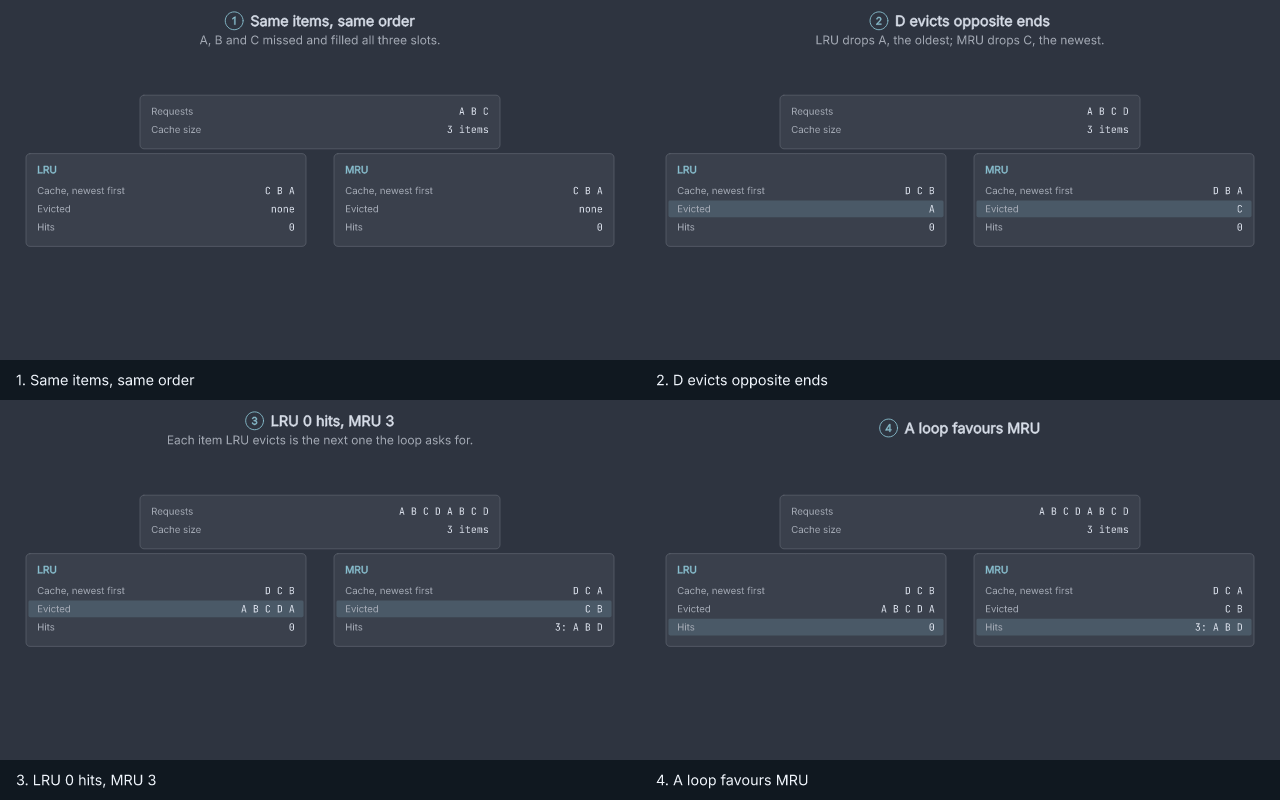
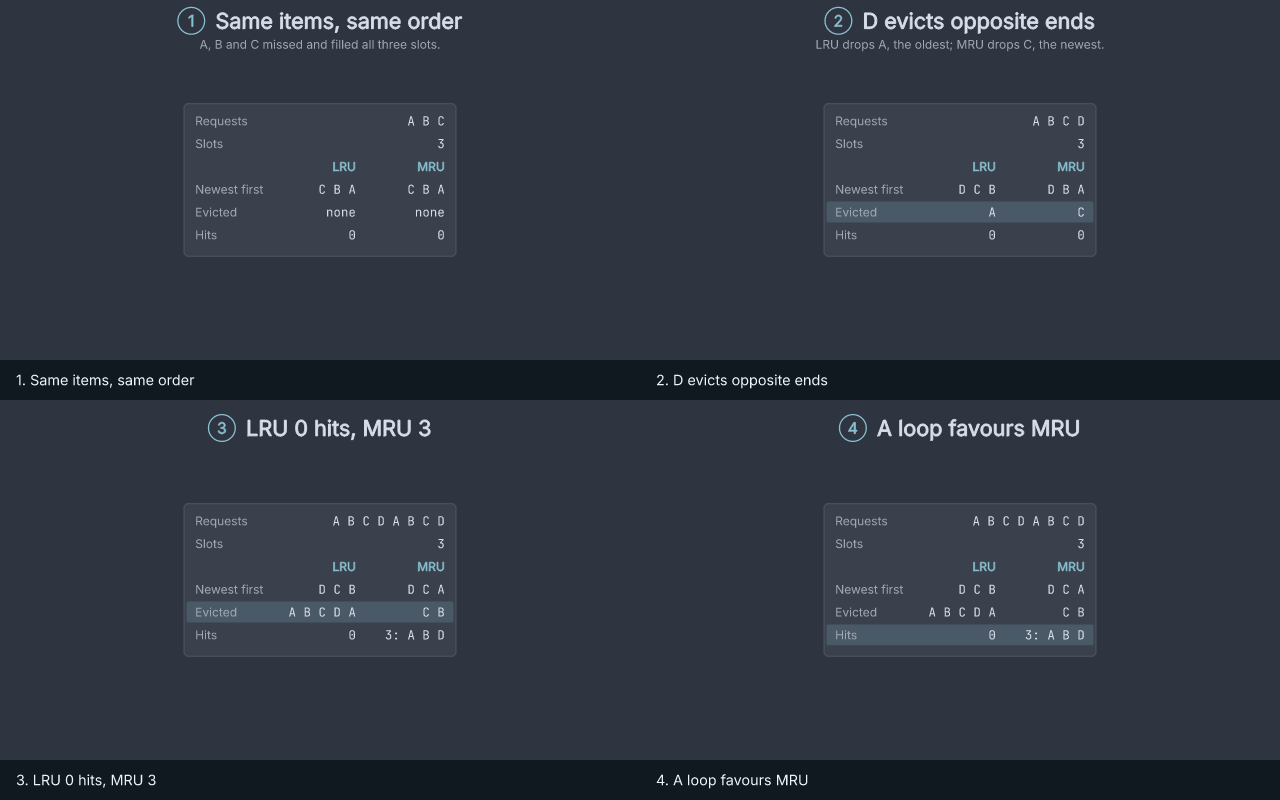
Refresh the LRU/MRU evidence for the one-card scene
Contact sheets of both cases, phone screenshots of loop step 3 and the
C D C D ending, and the review hashes for commit a37f2a3.

Claude-Session: https://claude.ai/code/session_01N4DAa9nFSeTseNAn2EjSby

diff --git a/docs/evidence/lru-mru-tutorial/README.md b/docs/evidence/lru-mru-tutorial/README.md
@@ -1,15 +1,16 @@
 # LRU/MRU tutorial explainer: resting pictures
 
-These images come from `scenes/tutorial/lru-mru/scene.ts` at commit `e27a32ea7a95aa944c9c309f8ef8d6ed9ce4e0a4`, rendered by the production player. The explainer is new, so there is no earlier picture to compare against.
+These images come from `scenes/tutorial/lru-mru/scene.ts` at commit `a37f2a3d14371e497ec40d217ea6cf4c81dfa45a`, rendered by the production player. The scene shows both policies in one card with an LRU and an MRU column.
 
 | File | What it shows | Command |
 | --- | --- | --- |
 | [`contact-loop.png`](contact-loop.png) | Every resting step of the A B C D A B C D case at 1280 px | `npm run rayner -- shots scenes/tutorial/lru-mru/scene.ts --case next=loop --out docs/evidence/lru-mru-tutorial/contact-loop.png` |
 | [`contact-reuse.png`](contact-reuse.png) | Every resting step of the A B C D C D C D case at 1280 px | the same command with `--case next=reuse` |
-| [`phone-loop-rest-390.png`](phone-loop-rest-390.png) | The opening close-up of step 3, loop case, on a 390 px page | `npm run rayner -- review scenes/tutorial/lru-mru/scene.ts`, file `0/rest.390.png` |
+| [`phone-loop-rest-390.png`](phone-loop-rest-390.png) | Step 3 of the loop case on a 390 px page | `npm run rayner -- review scenes/tutorial/lru-mru/scene.ts`, file `0/rest.390.png` |
+| [`phone-reuse-verdict-390.png`](phone-reuse-verdict-390.png) | Step 4 of the C D C D case on a 390 px page | the same review, file `1/verdict.390.png` |
 
-`rayner review` opened both cases at 390 and 1180 px: 16 step-width checks, no console errors and no runtime connections (`sourceHash` `613e89be…`, `artifactHash` `26122948…`). `rayner check` reports no labels under 12 px in either case.
+`rayner review` opened both cases at 390 and 1180 px: 16 step-width checks, one phone view per step, no console errors and no runtime connections (`sourceHash` `a5961f2b…`, `artifactHash` `1334fac2…`). `rayner check` reports no labels under 12 px in either case.
 
-The values on the cards are tested separately: `test/explain-tutorial.test.ts` compares each case's cards with the model and runs the model against Wikipedia's worked examples.
+The values on the card are tested separately: `test/explain-tutorial.test.ts` compares each case's card with the model and runs the model against Wikipedia's worked examples.
 
-**Limitation:** on a 390 px page the player opens each step on a close-up of part of the stage, so step 3 shows the MRU card first and the LRU card in a second view. A phone reader cannot see both hit counts at once.
+**Limitation:** the phone close-up frames what changed in a step. At step 4 that is the Hits row, so the top of the card (Requests and Slots) sits above the view; both hit counts are in it.
